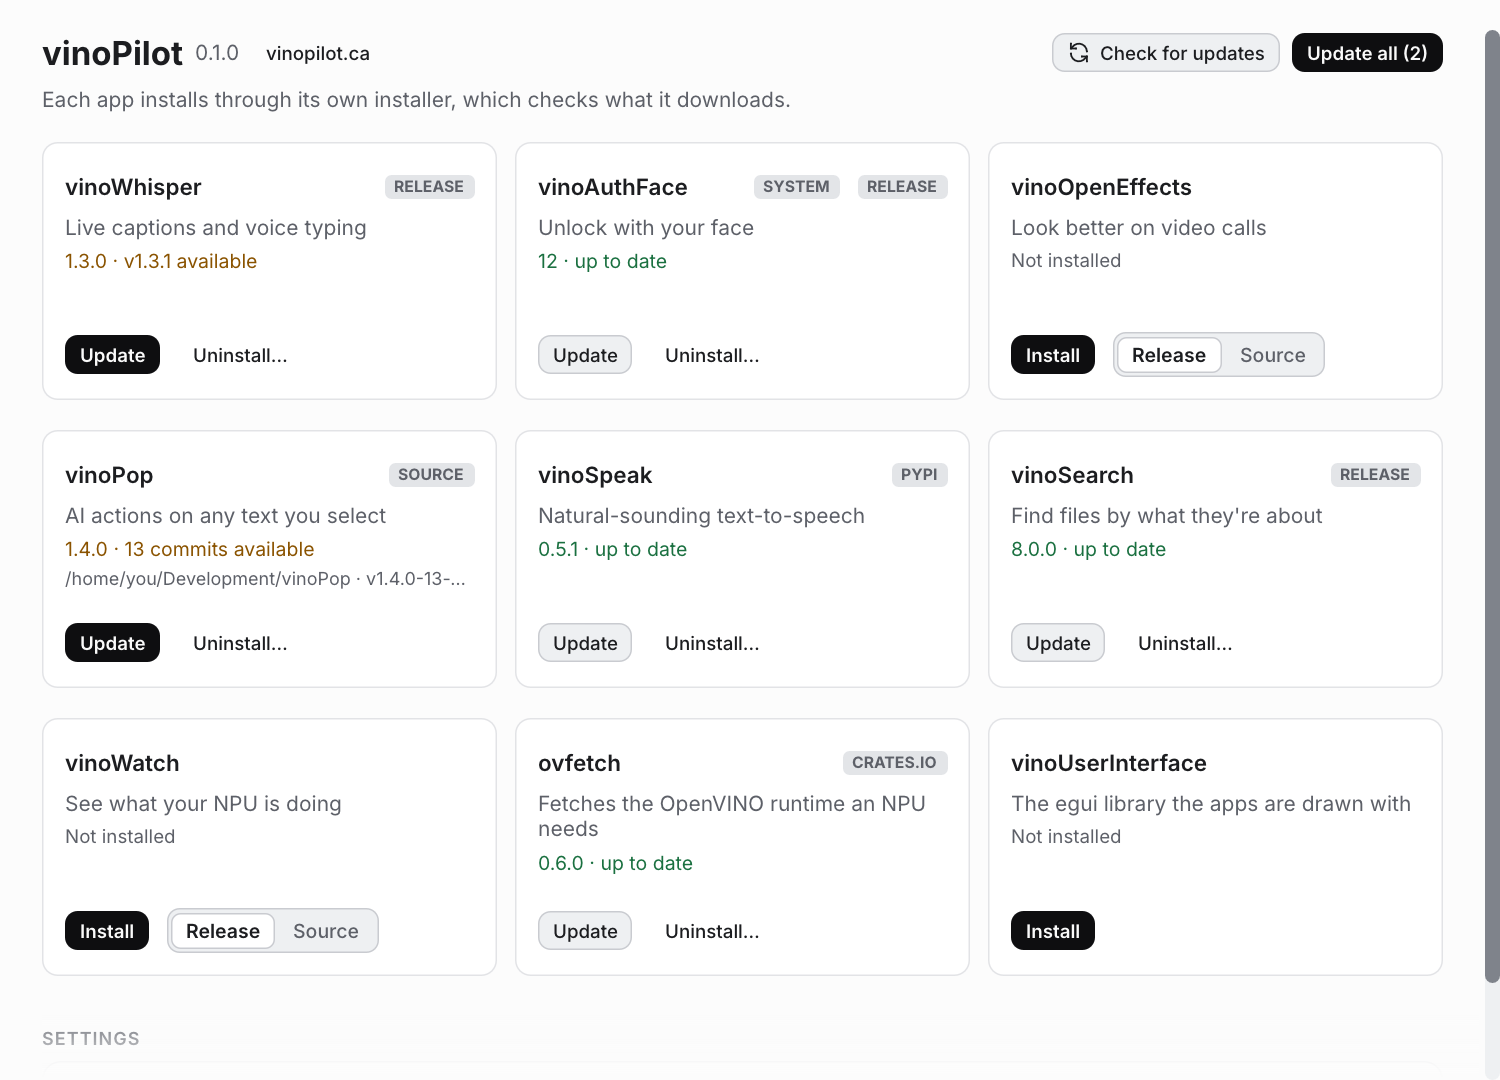
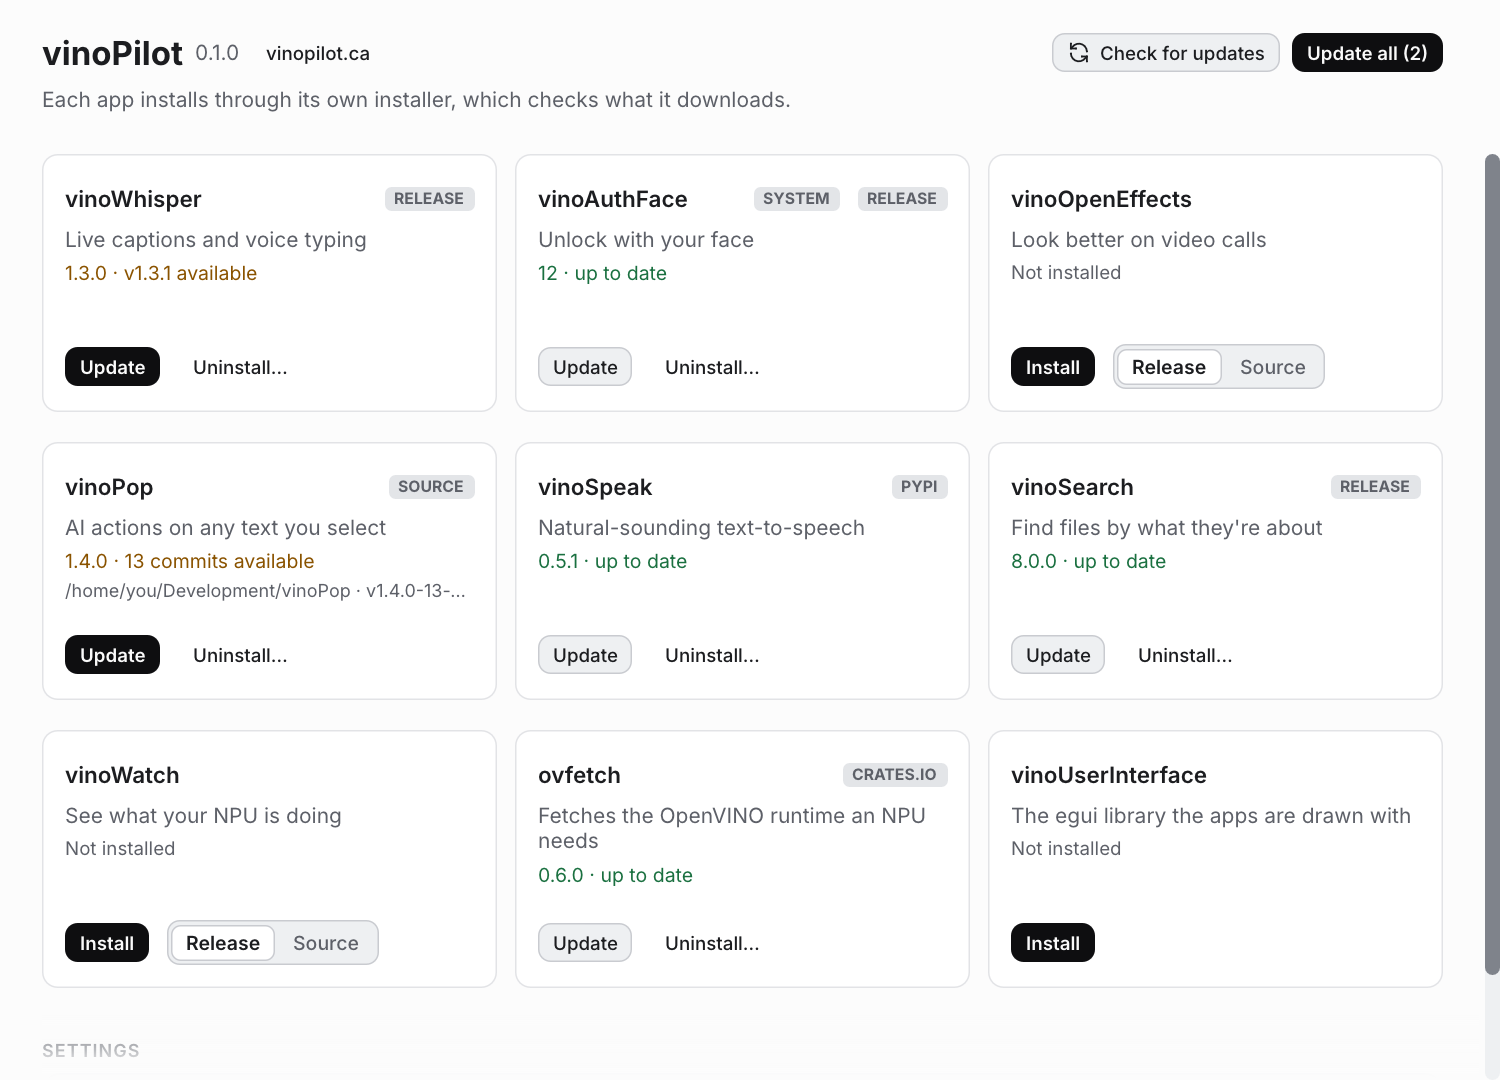
feat(gui): keep the header in place while the cards scroll

diff --git a/crates/gui/src/lib.rs b/crates/gui/src/lib.rs
@@ -369,7 +369,7 @@ impl Pilot {
                             }
                             Some(installed) if confirming => {
                                 let label = if id == Id::Ui {
-                                    "Delete checkout"
+                                    "Move to trash"
                                 } else {
                                     "Uninstall"
                                 };
@@ -390,7 +390,7 @@ impl Pilot {
                                     intent = Some((installed.channel, Action::Update));
                                 }
                                 let label = if id == Id::Ui {
-                                    "Delete…"
+                                    "Trash checkout…"
                                 } else {
                                     "Uninstall…"
                                 };
@@ -524,9 +524,16 @@ impl Pilot {
                 bottom: 0,
             }))
             .show(ui, |ui| {
-                widgets::page_scroll(ui, "vinoPilot", PAGE_MAX, |ui| {
+                // Above the scroll area, so it stays put; as wide as the
+                // cards, which sit inside the scroll bar and its gap.
+                ui.scope(|ui| {
+                    let bar = ui.spacing().scroll.allocated_width();
+                    let inside = ui.available_width() - bar - widgets::SCROLL_GAP;
+                    ui.set_max_width(inside.min(PAGE_MAX));
                     self.header(ui);
-                    ui.add_space(6.0);
+                });
+                ui.add_space(6.0);
+                widgets::page_scroll(ui, "vinoPilot", PAGE_MAX, |ui| {
                     self.grid(ui);
                     self.settings(ui);
                 });
